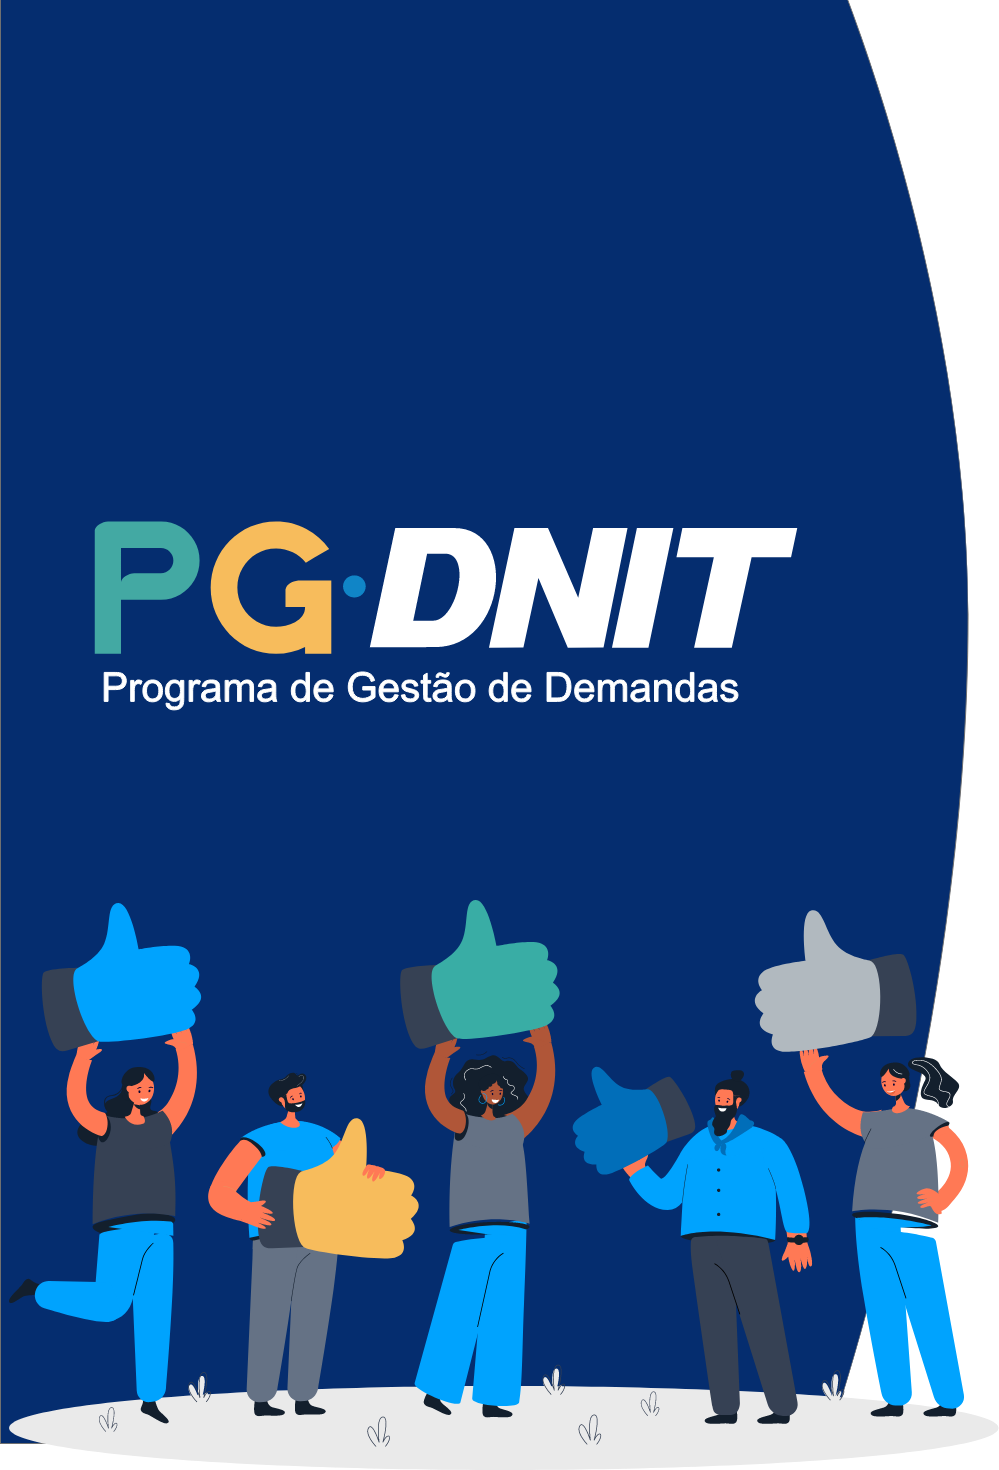
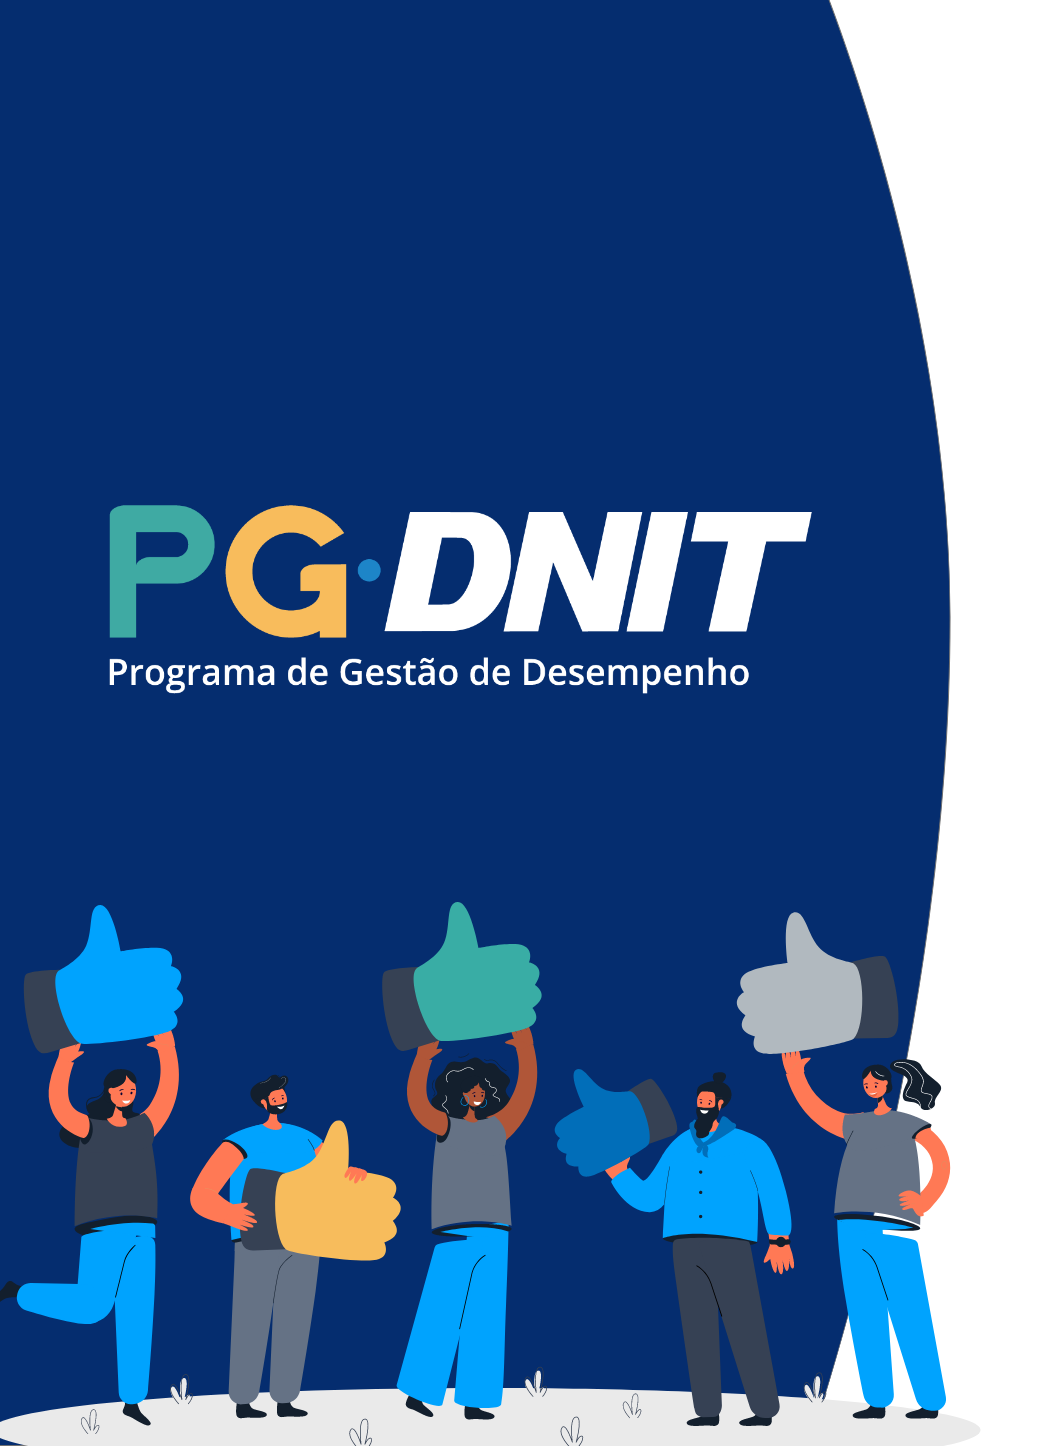
novo layout da pagina login

Changed region(s): [[0.0, 0.0, 0.993, 1.0], [0.0931, 0.3423, 0.8068, 0.4979]]

diff --git a/PGD.UI.Mvc/Content/css/login.css b/PGD.UI.Mvc/Content/css/login.css
@@ -17,7 +17,7 @@
 .right {
     display: flex;
     flex-direction: column;
-    width: 50%;
+    width: 50%;    
     justify-content: center;
 }
 
@@ -87,7 +87,8 @@
     bottom: 25px;
     width: 500px;
     max-width: 100%;
-    left: 49.5%;
+    right: 3%;
+    /*left: 49.5%;
     /*position: fixed;
     bottom: 50px;
     width: 250px;
@@ -146,7 +147,7 @@
     }
 
 .clique-aqui {
-    text-align: center;
+    text-align: left;
     width: 500px;
     font-size: 1.4rem;
     margin-top: 3rem;

diff --git a/PGD.Domain/Enums/Enums.cs b/PGD.Domain/Enums/Enums.cs
@@ -154,9 +154,9 @@ namespace PGD.Domain.Enums
         QuantidadeHorasDiarias = 10,
         //csa numero de dias retroativos
         QuantidadeDiasRetroativosPactosChefe = -365,
-        QuantidadeDiasRetroativosPactosSolicitante = -7,
+        QuantidadeDiasRetroativosPactosSolicitante = -30,
         PodeEditarDiaCronogramaChefe = 365,
-        PodeEditarDiaCronogramaSolicitante = 7
+        PodeEditarDiaCronogramaSolicitante = 30
 
 
     }

diff --git a/PGD.UI.Mvc/Controllers/HomeController.cs b/PGD.UI.Mvc/Controllers/HomeController.cs
@@ -19,8 +19,14 @@ namespace PGD.UI.Mvc.Controllers
         }
 
         public ActionResult Index()
-        {
+        {           
             return RedirectToAction("Index", "Pacto");
         }
+
+        //public actionresult termos()
+        //{
+        //    return view("termos");
+        //    //return redirecttoaction("index", "pacto");
+        //}
     }
 }

diff --git a/PGD.UI.Mvc/Controllers/LoginController.cs b/PGD.UI.Mvc/Controllers/LoginController.cs
@@ -193,6 +193,12 @@ namespace PGD.UI.Mvc.Controllers
 
             return RedirectToAction("Index", "Home");
         }
+        /// ##
+        public ActionResult Termos()
+        {
+            //Console.Write("Hello World! ");
+            return View("Termos");
+        }
 
         public ActionResult LogOut()
         {
